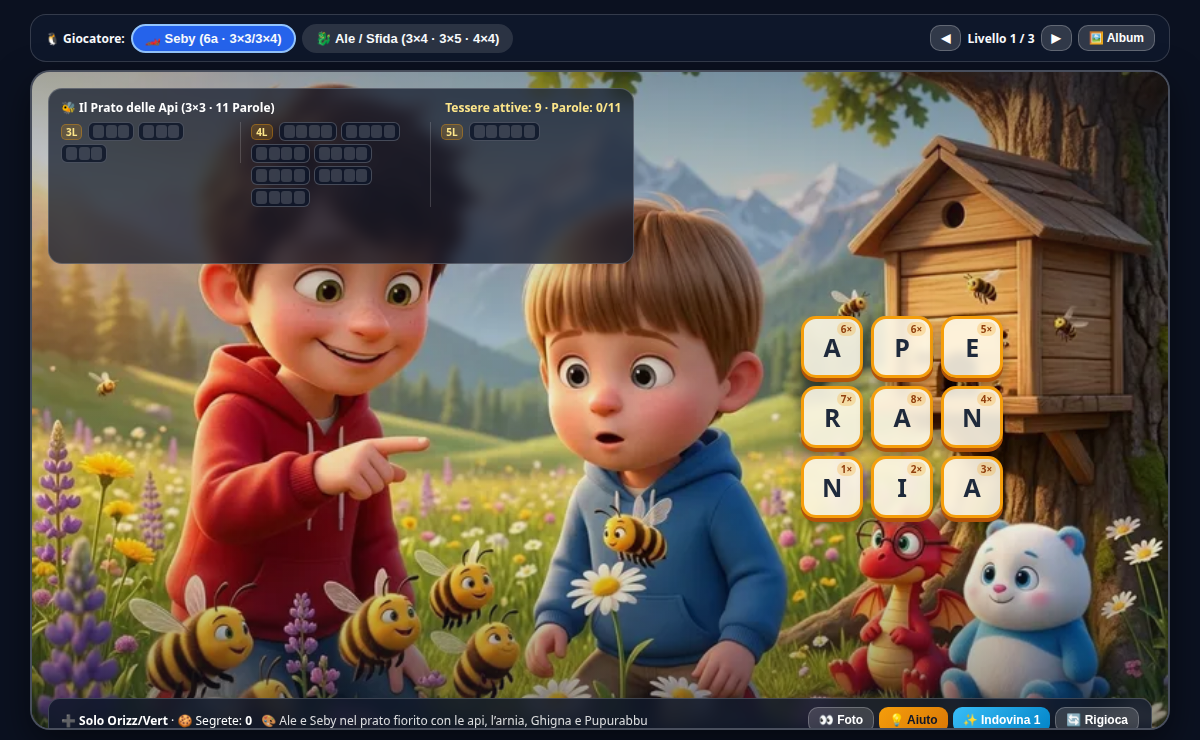
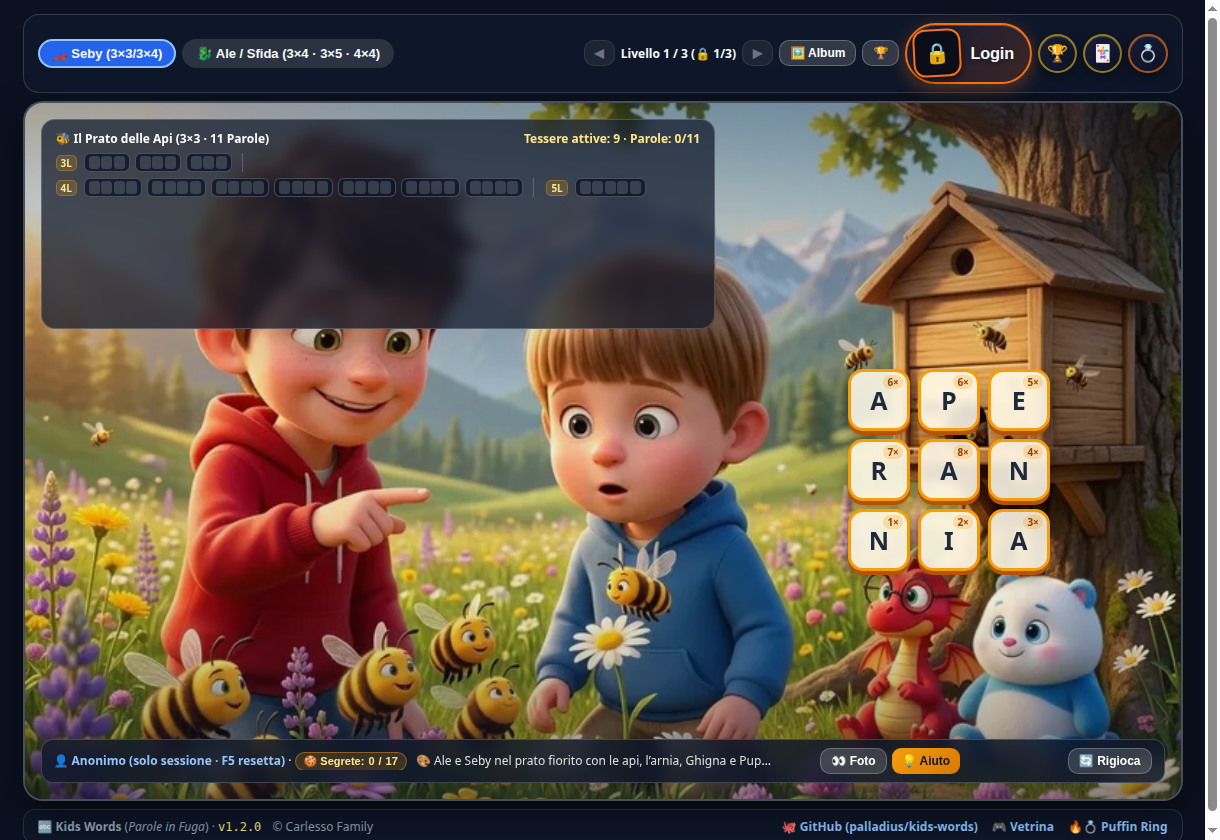
feat(kids-words): enable PuffinLogin badge, Ring metadata, and v1.2.0 screenshot

diff --git a/assets/js/games-data.js b/assets/js/games-data.js
@@ -16,7 +16,7 @@ window.PALLADIUS_GAMES = [
     "repo_url": "https://github.com/palladius/kids-words",
     "can_embed": true,
     "featured": true,
-    "badge": "🟢 Live App • Ale & Seby 🐧",
+    "badge": "🟢 Live App • PuffinLogin 🐧",
     "target": "Alessandro, Sebastian & Family",
     "tech": [
       "HTML5",
@@ -36,8 +36,13 @@ window.PALLADIUS_GAMES = [
       "swipe",
       "family",
       "audio",
-      "cartoon"
-    ]
+      "cartoon",
+      "login",
+      "puffin-login",
+      "supports_puffin_login"
+    ],
+    "supports_puffin_login": true,
+    "puffin_game_id": "kids-words"
   },
   {
     "id": "snake-tui",
